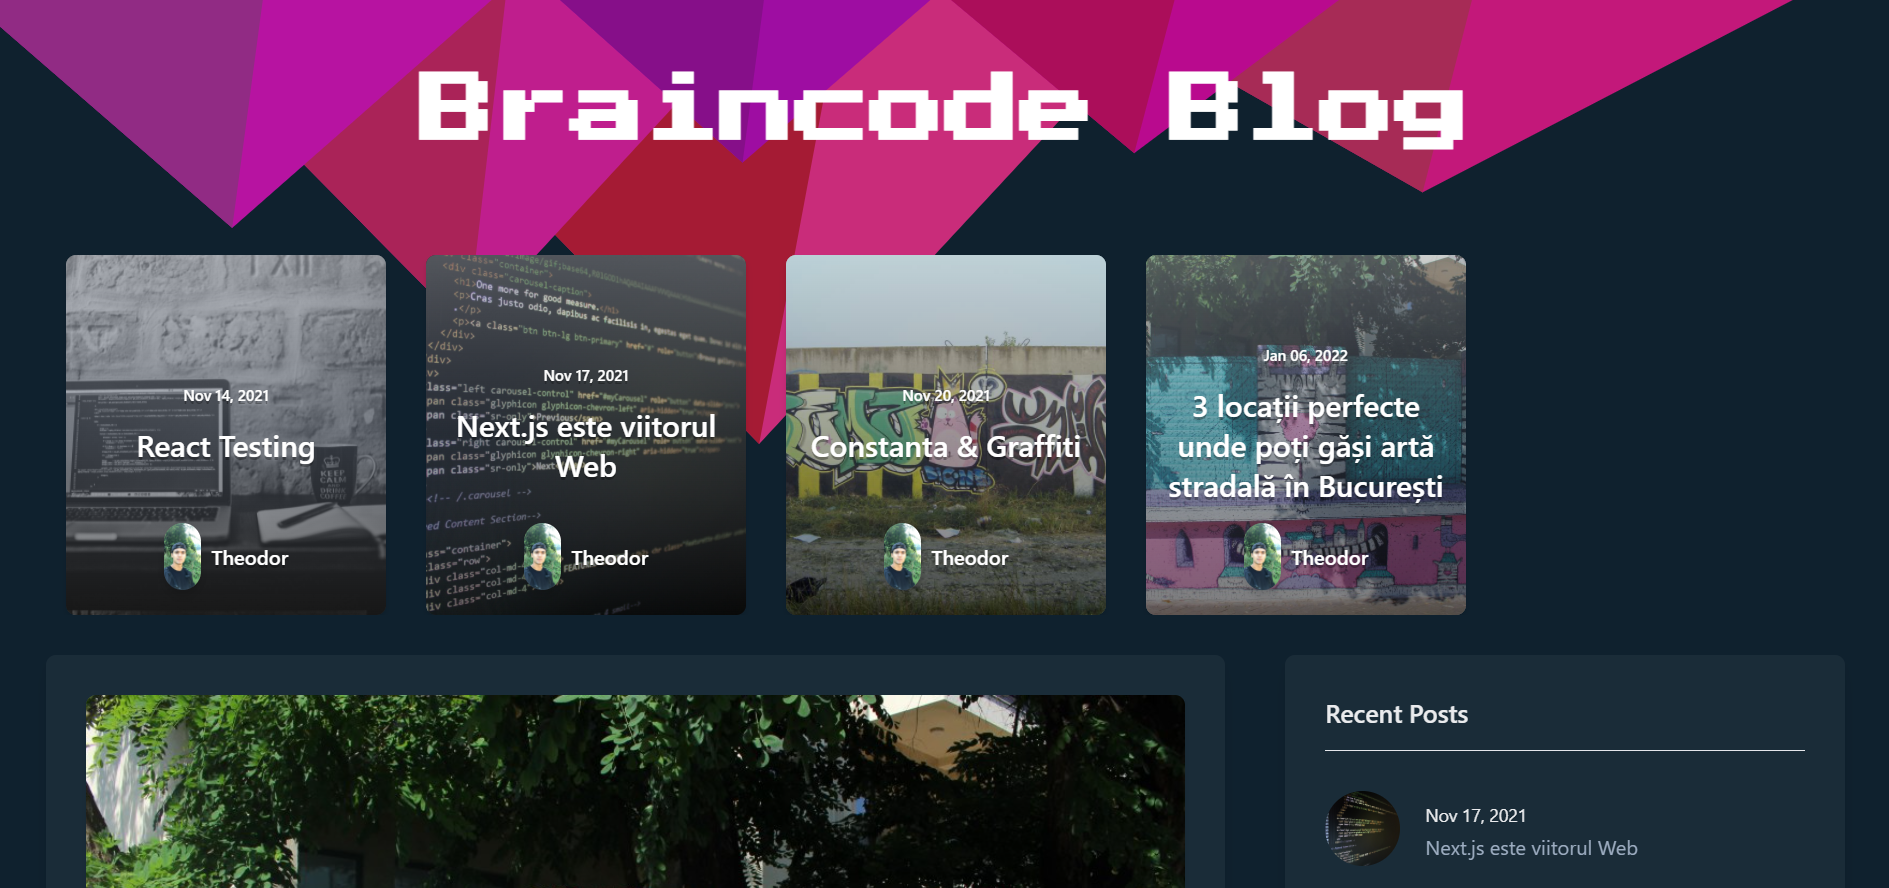
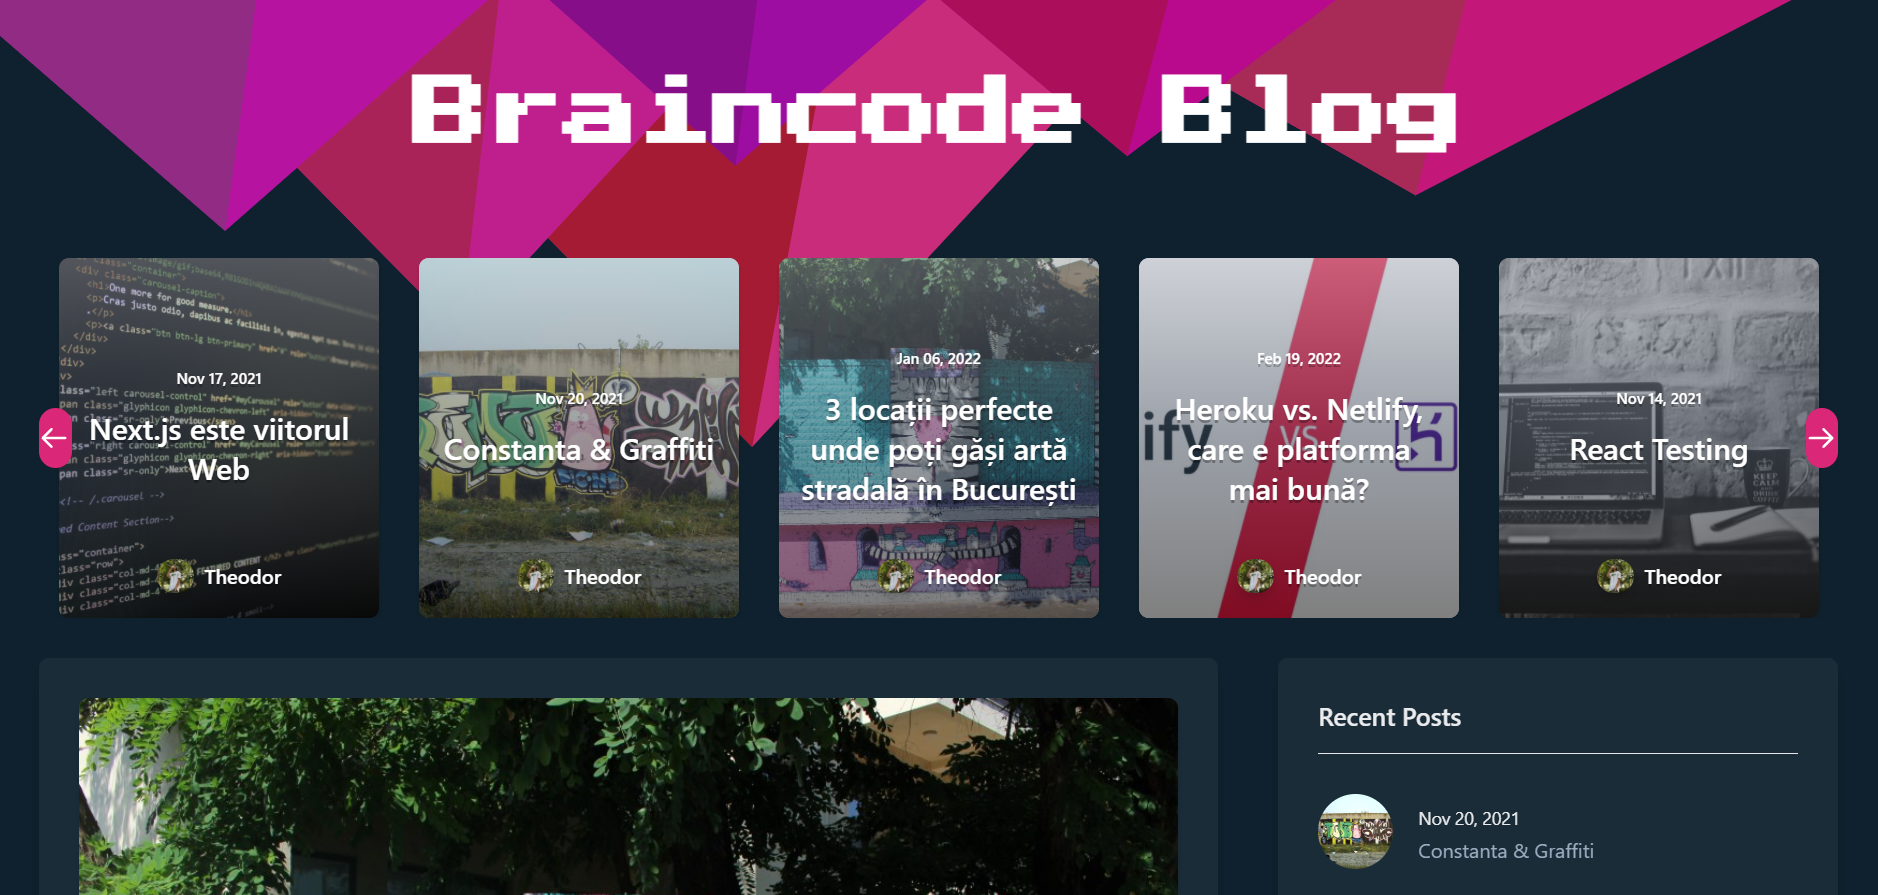
postwidgets

diff --git a/components/PostWidget.jsx b/components/PostWidget.jsx
@@ -28,23 +28,29 @@ const PostWidget = ({ categories, slug }) => {
       {relatedPosts.map((post, index) => (
         <div key={index} className="flex items-center w-full mb-4">
           <div className="w-16 flex-none">
-            <Image
-              alt={post.title}
-              height="60px"
-              width="60px"
-              unoptimized
-              className="align-middle rounded-full"
-              src={post.featuredImage.url}
-            />
+            <Link
+              href={`/post/${post.slug}`}
+              className="cursor-pointer"
+              key={index}
+            >
+              <Image
+                alt={post.title}
+                height="60px"
+                width="60px"
+                unoptimized
+                className="align-middle rounded-full cursor-pointer"
+                src={post.featuredImage.url}
+              />
+            </Link>
           </div>
           <div className="flex-grow ml-4">
+            <p className="text-[#9dadc1] pt-1">
+              <Link href={`/post/${post.slug}`} className="text-md" key={index}>
+                {post.title}
+              </Link>
+            </p>
             <p className="text-text-color text-sm">
               {moment(post.createdAt).format("MMM DD, YYYY")}
-            </p>
-            <p className="text-[#9dadc1] pt-1">
-            <Link href={`/post/${post.slug}`} className="text-md " key={index}>
-              {post.title}
-            </Link>
             </p>
           </div>
         </div>
